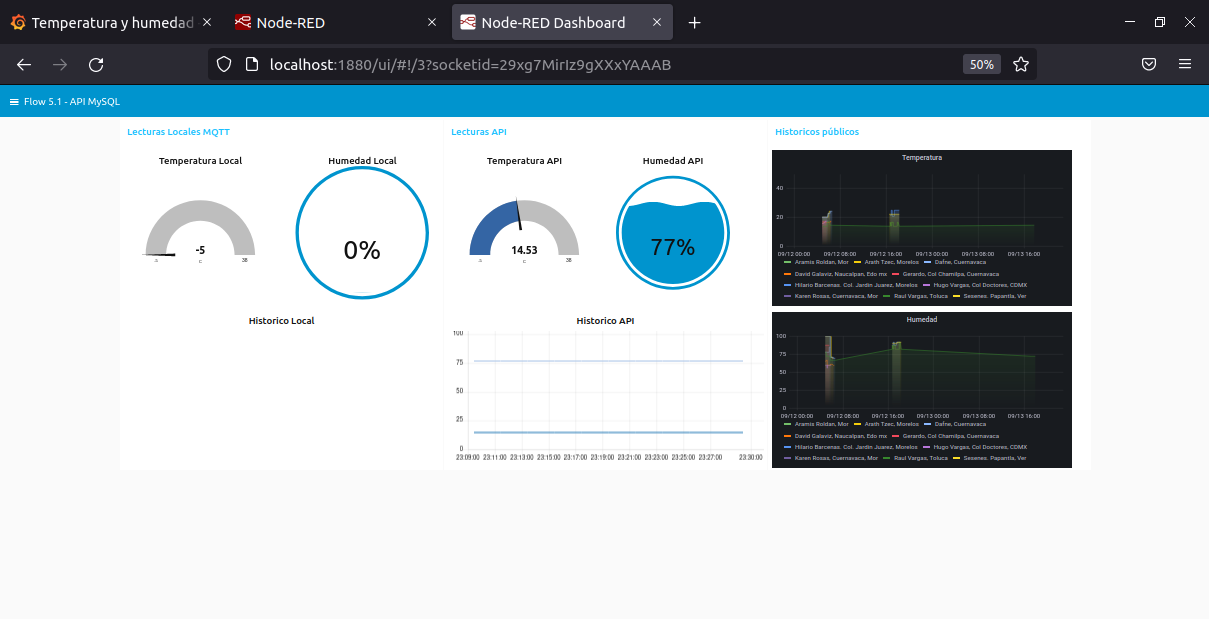
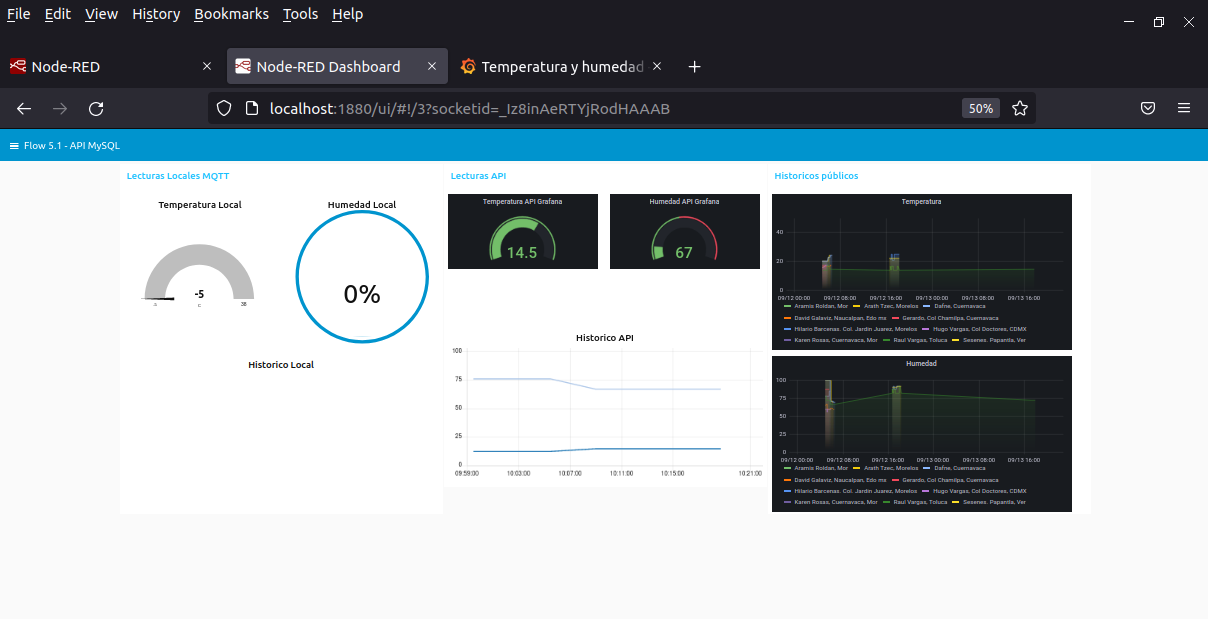
Se continua la edición del archivo README.md para documentación

diff --git a/README.md b/README.md
@@ -20,7 +20,19 @@ Para esta práctica se usarán los siguientes nodos:
  - Sofware
 	 - Equipo o Máquina virtual con [Ubuntu](https://ubuntu.com/) con una versión mínima 20.04
 	 - [Node-RED](https://nodered.org/) (notas para [instalación](https://github.com/nodesource/distributions/blob/master/README.md))
+	 - Servidor MySQL
+		sudo apt update
+        	sudo apt upgrade
+        	sudo apt install mysql-server
 	 - [Git](https://git-scm.com/) (notas para [instalación](https://git-scm.com/book/en/v2/Getting-Started-Installing-Git))
+	 - [Grafana](https://grafana.com) (notas para [instalación](https://grafana.com/grafana/download?pg=get&plcmt=selfmanaged-box1-cta1&edition=oss))
+	 	- https://grafana.com/grafana/download?pg=get&plcmt=selfmanaged-box1-cta1
+			seleccionar Edition: OSS
+			sudo apt-get install -y adduser libfontconfig1
+			wget https://dl.grafana.com/oss/release/grafana_9.1.4_amd64.deb
+			sudo dpkg -i grafana_9.1.4_amd64.deb
+
+
  - Hardware
 	 - PC o LapTop con Linux, Windows
 	 - Mínimo 8 Gb en RAM
@@ -30,20 +42,30 @@ Para esta práctica se usarán los siguientes nodos:
 
  - [Node-Red](https://nodered.org/)
  - [Git](https://git-scm.com/)
+ - [Grafana](https://grafana.com)
 
 ## Instrucciones
 
 **Requerimientos previos**
-	 - Tener instalado el sofware necesario listado en el apartado 
+	 - Tener instalado el sofware necesario listado en el apartado "Software"
 
 **Material necesario**
 	 - El programa "node-red" debe estár ejecución
+		node-red
 	 - Tener la aplicación de Node-RED abierta en un navegador con la dirección "http://localhost:1880"
+	 - El programa "Grafana" debe estár ejecución
+		sudo /bin/systemctl start grafana-server
+	 - Tener la aplicación de Grafana abierta en un navegador con la dirección "http://localhost:3000"
+	 	Iniciar sesion
+		- User: admin
+		- Password: admin
+		- Nueva contraseña: any22any
 	 - Ejecutar en una terminal el comando nslookup broker.hivemq.com para obtener la dirección IP del servidror público y copiar la ip "Address" (18.158.239.107)
 	 
- - Arrastrar los nodos necesarios para obtener el flujo similar al de la siguiente imagen
+ - Arrastrar los nodos necesarios para obtener el flujo similar al de las siguientes imagenes
 
 ![](https://github.com/rvnava/clima_por_api_mysql/blob/main/Flujo-broker-publico.png?raw=true)
+![](https://github.com/rvnava/clima_por_api_mysql/blob/main/Flujo-broker-publico_2.png?raw=true)
 
  - Conectar el nodo **json** con los 2 nodos **function**
  - Conectar cada nodo **function** con cada nodo **gauge**
@@ -89,28 +111,18 @@ Para esta práctica se usarán los siguientes nodos:
         Cambiar el nombre a humedad
 
  - Doble clic en el nodo gauge que está conectado al nodo de temperatura
-        Seleccionar grupo temperatura
-        Label: Temperatura
-        Units: grados centigrados (C)
-        Rangos 2 a 38, seleccionar de acuerdo a donde nos encontremos
-        Cambiar color azul-frio 2-18
-        Verde 18-26
+        Desactivar este nodo
         clic en Done
 
  - Doble clic en el nodo gauge que está conectado al nodo humedad
-        Seleccionar grupo humedad
-        Label: Humedad relativa
-        Tipo : level
-        Units: %
-        min 0 max 100 (de acuerdo al rango del sensor)
+        Desactivar este nodo
         clic en Done
 
  - Conectar los nodos **function** temperatura y humedad al nodo **chart**
  - Agregar un nuevo grupo para el nodo histórico llamado HistoricoLocal
  - Dobleclic en el nodo chart
-        Label: Historico local
-        x-axis: 20 min
-        y-xis: 0 -100
+        Desactivar este nodo
+        clic en Done
 
  - Agregar un enviador en el tema
         codigoIoT/flow5/mqtt/clima
@@ -136,8 +148,53 @@ Para esta práctica se usarán los siguientes nodos:
 	global.set ("humAPI", msg.payload);
 	return msg;
 
+ - Desactivar los nodos Gauge de Temperatura y Humedad para la información obtenida por API.
 
- - Oprimir Deploy
+ - Desactivar los nodos Line chart de Temperatura y Humedad historicos para la información obtenida por API.
+
+ - Configurar base de datos de MySQL
+ 	- create database codigoIoT; -- Crea la base de datos codigoIoT
+ 	- use codigoIoT; -- Selecciona la base de datos codigoIoT
+ 	- create user 'raulraul'@'localhost' identified by '1234'; -- crea el usuario raulraul y establece la contraseña
+ 	- grant all privileges on *.* to 'hugohugo'@'localhost'; -- Le proporciona los privilegios a todas las tablas
+ 	- create table clima (id INT(6) UNSIGNED AUTO_INCREMENT PRIMARY KEY, fecha TIMESTAMP DEFAULT CURRENT_TIMESTAMP, nombre VARCHAR (248) NOT NULL, temperatura FLOAT (4,2) NOT NULL, humedad INT (3) NOT NULL); -- Crea la tabla clima
+
+ - Ingresar en la página de NodeRed 
+ 	- Instalar nodos MySQL
+	- Dirigirse a la pestaña Install del menú Manage Palett
+	- node-red-node-mysql
+
+ - Ingresar en la página de Grafana 
+	- Agregar una fuente de información
+		- Configuraciones > Data Source
+		- Hacer clic en el boton Add Data Source
+		- Seleccionar la opción MySQL
+	- Configurar el DataSource de MySQL
+		- Host: localhost:3306
+		- Database: codigoIoT
+		- User & Password: Nombre de usuario y contraseña generados para MySQL
+ 	- Agregar cuatro páneles
+		- clic en el icono de grafana
+		- esquina superior derecha > agregar panel
+		- Generar las gráficas para datos de temperatura y humedad solo de nuestro usuario así como de los datos históricos en Grafana de acuerdo a los datos de la siguiente imágen
+			- Temperatura
+				![](https://github.com/rvnava/clima_por_api_mysql/blob/main/Temperatura.png?raw=true)
+			- Humedad
+				![](https://github.com/rvnava/clima_por_api_mysql/blob/main/Humedad.png?raw=true)
+			- Historico temperatura
+				![](https://github.com/rvnava/clima_por_api_mysql/blob/main/Historico_temperatura.png?raw=true)
+			- Historico humedad
+				![](https://github.com/rvnava/clima_por_api_mysql/blob/main/Historico_humedad.png?raw=true)
+	- Insertar las gráficas de Grafana en NodeRed
+		https://grafana.com/docs/grafana/v9.0/sharing/share-panel/
+		https://www.itpanther.com/embedding-grafana-in-iframe/
+
+		- Obtener el codigo embed de cada panel
+		- Insertar el codigo en un nodo Template en el Flow de NodeRed
+		- Modificar el archivo grafana.ini que se encuentra en /etc/grafana
+	    	- allow_embed = true
+
+ 	- Oprimir Deploy
   
 
 ## Resultados
